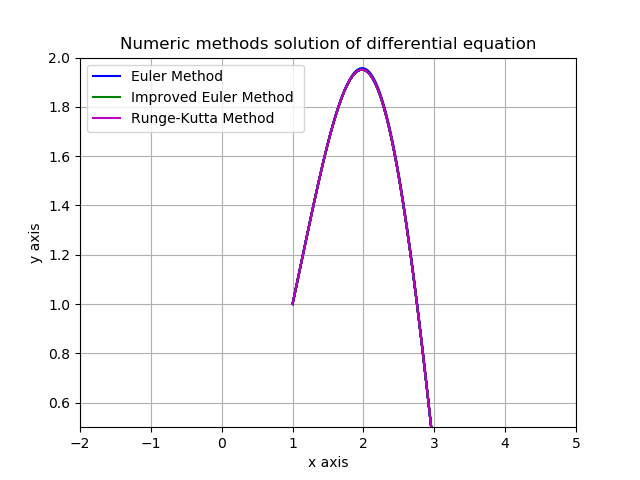
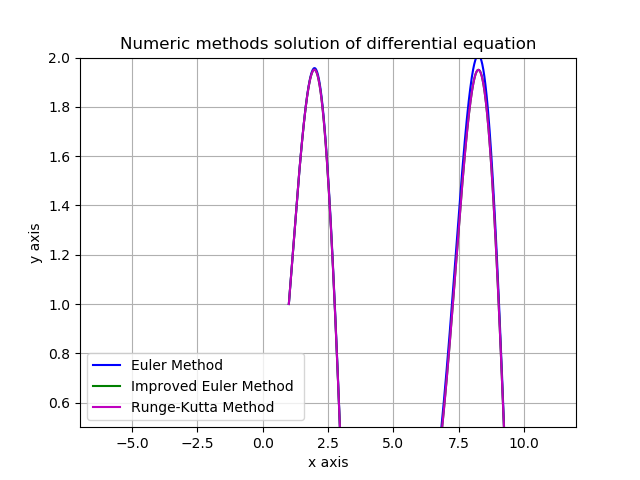
added Classes, methods, initialization. Added graph of Approximation Errors, Exact solution

diff --git a/templates/index.html b/templates/index.html
@@ -19,7 +19,6 @@
 
          <p><input type = "submit" value = "Build the graphs!" /></p>
       </form>
-{{a}}
 
 </body>
 </html>

diff --git a/main.py b/main.py
@@ -12,58 +12,80 @@ from matplotlib import pyplot as pylab
 #
 
 class Graph_builder:
-    # input_temp = [1, 1, 1, 3, 0.01]
 
-    def get_points(self, arg, input_parameters ):
+    def __init__(self):
+        self.x_common = []
+        self.y_exact = []
+        self.y_euler = []
+        self.y_imp_euler = []
+        self.y_fk = []
+        self.diff_exact_euler = []
+        self.diff_exact_imp_euler = []
+        self.diff_exact_rk = []
+
+    def get_points(self, arg, input_parameters):
         methods = Methods()
+        if arg == 'exact':
+            self.x_common = methods.exact_solution(input_parameters)[0]
+            self.y_exact = methods.exact_solution(input_parameters)[1]
         if arg == 'euler':
-            out = methods.euler_method(input_parameters)
+            self.y_euler = methods.euler_method(input_parameters)[1]
         if arg == 'euler_imp':
-            out = methods.improved_euler_method(input_parameters)
+            self.y_imp_euler = methods.improved_euler_method(input_parameters)[1]
         if arg == 'rk':
-            out = methods.runge_kutta_method(input_parameters)
-        return out
+            self.y_fk = methods.runge_kutta_method(input_parameters)[1]
+
+    def set_inf(self, input_parameters):
+        self.get_points('exact', input_parameters)
+        self.get_points('euler', input_parameters)
+        self.get_points('euler_imp', input_parameters)
+        self.get_points('rk', input_parameters)
+
+        for i in range(len(self.y_exact)):
+            self.diff_exact_euler.append(abs(self.y_exact[i] - self.y_euler[i]))
+            self.diff_exact_imp_euler.append(abs(self.y_exact[i] - self.y_imp_euler[i]))
+            self.diff_exact_rk.append(abs(self.y_exact[i] - self.y_fk[i]))
 
     def build(self, what,  input_parameters, show=False):
-        output_temp = [[] for k in range(3)]
         num_operations_temp = NumericOperations()
-        output_temp[0] = self.get_points('euler', input_parameters)
-        output_temp[1] = self.get_points('euler_imp', input_parameters)
-        output_temp[2] = self.get_points('rk', input_parameters)
-
-        x_common = output_temp[0][0]
-        y_euler = output_temp[0][1]
-        y_imp_euler = output_temp[1][1]
-        y_fk = output_temp[2][1]
 
         # Values for each line of graph, describing how all of them will look like, define markers
-        euler_line, imp_euler_line, fk_line = pylab.plot(x_common, y_euler, 'b-', x_common, y_imp_euler, 'g-', x_common,
-                                                         y_fk, 'm-')
-
+        exact_line, euler_line, imp_euler_line, fk_line = pylab.plot(self.x_common, self.y_exact, 'm-',self.x_common, self.y_euler, 'b-', self.x_common, y_imp_euler, 'g-', x_common,
+                                                         self.y_fk, 'c-')
         # X and Y axis intervals
-        # input - [x_initial, y_initial, diapazone_start, diapazone_end, h]
-        x_start = input_parameters[2] - 2
-        x_finish = input_parameters[3] + 2
-        y_start = int(num_operations_temp.find_value(min, [y_euler, y_imp_euler, y_fk])) + 0.5
-        y_finish = int(num_operations_temp.find_value(max, [y_euler, y_imp_euler, y_fk])) + 2
-
-        pylab.axis([x_start, x_finish, y_start, y_finish], 'tight')
-
         pylab.title(u'Numeric methods solution of differential equation')
         pylab.xlabel(u'x axis')
         pylab.ylabel(u'y axis')
 
-        pylab.legend((euler_line, imp_euler_line, fk_line),
-                     (u'Euler Method ', u'Improved Euler Method ', u'Runge-Kutta Method'), loc='best')
+        pylab.legend((exact_line,euler_line, imp_euler_line, fk_line),
+                     (u'Exact Solution' ,u'Euler Method ', u'Improved Euler Method ', u'Runge-Kutta Method'), loc='best')
 
         # Включаем сетку
 
         pylab.grid()
+        pylab.show()
         # Сохраняем построенную диаграмму в файл
         # Задаем имя файла и его тип
+
         pylab.savefig('./static/' + what + '.png', format='png')
         if show:
             pylab.show()
+
+    def build_errors(self):
+
+        err_euler_line, err_imp_euler_line, err_fk_line = pylab.plot(self.x_common, self.diff_exact_euler, 'm-', self.x_common, self.diff_exact_imp_euler,
+                                                                         'b-', self.x_common, self.diff_exact_rk, 'g-')
+
+        pylab.title(u'Approximation error of numeric methods solution of differential equation')
+        pylab.xlabel(u'x axis')
+        pylab.ylabel(u'y axis')
+
+        pylab.legend((err_euler_line, err_imp_euler_line, err_fk_line),
+                         (u'Euler Method ', u'Improved Euler Method ', u'Runge-Kutta Method'),
+                         loc='best')
+
+        pylab.grid()
+        pylab.show()
 
 class NumericOperations:
 
@@ -79,7 +101,6 @@ class NumericOperations:
                         value = i
         return value
 
-
 class Methods:
 
     # my equation is 13th:
@@ -87,6 +108,42 @@ class Methods:
 
     def get_value(self, x, y):
         return math.sin(x)**2 + y / math.tan(x)
+
+
+    def get_const(self, x0, y0):
+        return  (y0 + math.sin(x0)*math.cos(x0))/math.sin(x0)
+
+    def exact_solution(self, input):
+        # input - [x_initial, y_initial, diapazone_start, diapazone_end, h]
+        x0 = input[0]
+        y0 = input[1]
+        h = input[4]
+        pointer = input[2]
+
+        table_x = []
+        table_y = []
+
+        const = self.get_const(x0, y0)
+
+        while (pointer <= input[3]):
+            if not table_x:
+                table_x.append(input[0])
+                table_y.append(input[1])
+            else:
+                x_i = table_x[len(table_x) - 1]
+
+                # general sol is y = sin(x) * C - sin(x) * cos(x)
+                x_next = x_i + h
+                y_next = math.sin(x_next)*const - math.sin(x_next)*math.cos(x_next)
+
+
+                table_x.append(x_next)
+                table_y.append(y_next)
+                pointer += h
+
+        table = [table_x, table_y]
+        return table
+
 
     def euler_method(self, input):
         table_x = []
@@ -161,6 +218,8 @@ class Methods:
                 pointer += h
         table = [table_x, table_y]
         return table
+
+
 # input - [x_initial, y_initial, diapazone_start, diapazone_end, h]
 
 
@@ -191,40 +250,43 @@ class Methods:
 #     # print(f"({# i[0]},{i[1]})")
 #     # print("(" + str(i[0]) + ";" + str(i[1]) +")")
 
-# input_temp = [1, 1, 1, 3, 0.01]
-# builder = Graph_builder()
-#
+# TESTING PART
+
+input_temp = [1, 1, 1, 3, 0.01]
+builder = Graph_builder()
+
 # builder.build('methods_graph', input_temp)
-
-from flask import Flask, render_template, request
-app = Flask(__name__)
-
-@app.route('/')
-def start():
-    return render_template('index.html')
-
-@app.route('/result', methods = ['POST', 'GET'])
-def result():
-    if request.method == 'POST':
-        dictionary =  request.form
-
-        input = [dictionary['x_initial'],dictionary['y_initial'],dictionary['diapazone_start'],dictionary['diapazone_end'],dictionary['h']]
-
-        for i in range(len(input)):
-            temp = float(input[i])
-            input[i] = temp
-
-        builder = Graph_builder()
-        builder.build('methods_graph', input)
-
-        # # output = [[] for k in range(3)]
-        # methods = Methods()
-        # graphs = Graph_builder()
-        # methods.euler_method(input)
-
-        return render_template("result.html", result = input)
-    else:
-        return render_template("result.html")
-
-if __name__ == '__main__':
-    app.run(debug=True)
+builder.set_inf(input_temp)
+builder.build()
+# from flask import Flask, render_template, request
+# app = Flask(__name__)
+#
+# @app.route('/')
+# def start():
+#     return render_template('index.html')
+#
+# @app.route('/result', methods = ['POST', 'GET'])
+# def result():
+#     if request.method == 'POST':
+#         dictionary =  request.form
+#
+#         input = [dictionary['x_initial'],dictionary['y_initial'],dictionary['diapazone_start'],dictionary['diapazone_end'],dictionary['h']]
+#
+#         for i in range(len(input)):
+#             temp = float(input[i])
+#             input[i] = temp
+#
+#         builder = Graph_builder()
+#         builder.build('methods_graph', input)
+#
+#         # # output = [[] for k in range(3)]
+#         # methods = Methods()
+#         # graphs = Graph_builder()
+#         # methods.euler_method(input)
+#
+#         return render_template("result.html", result = input)
+#     else:
+#         return render_template("result.html")
+#
+# if __name__ == '__main__':
+#     app.run(debug=True)
